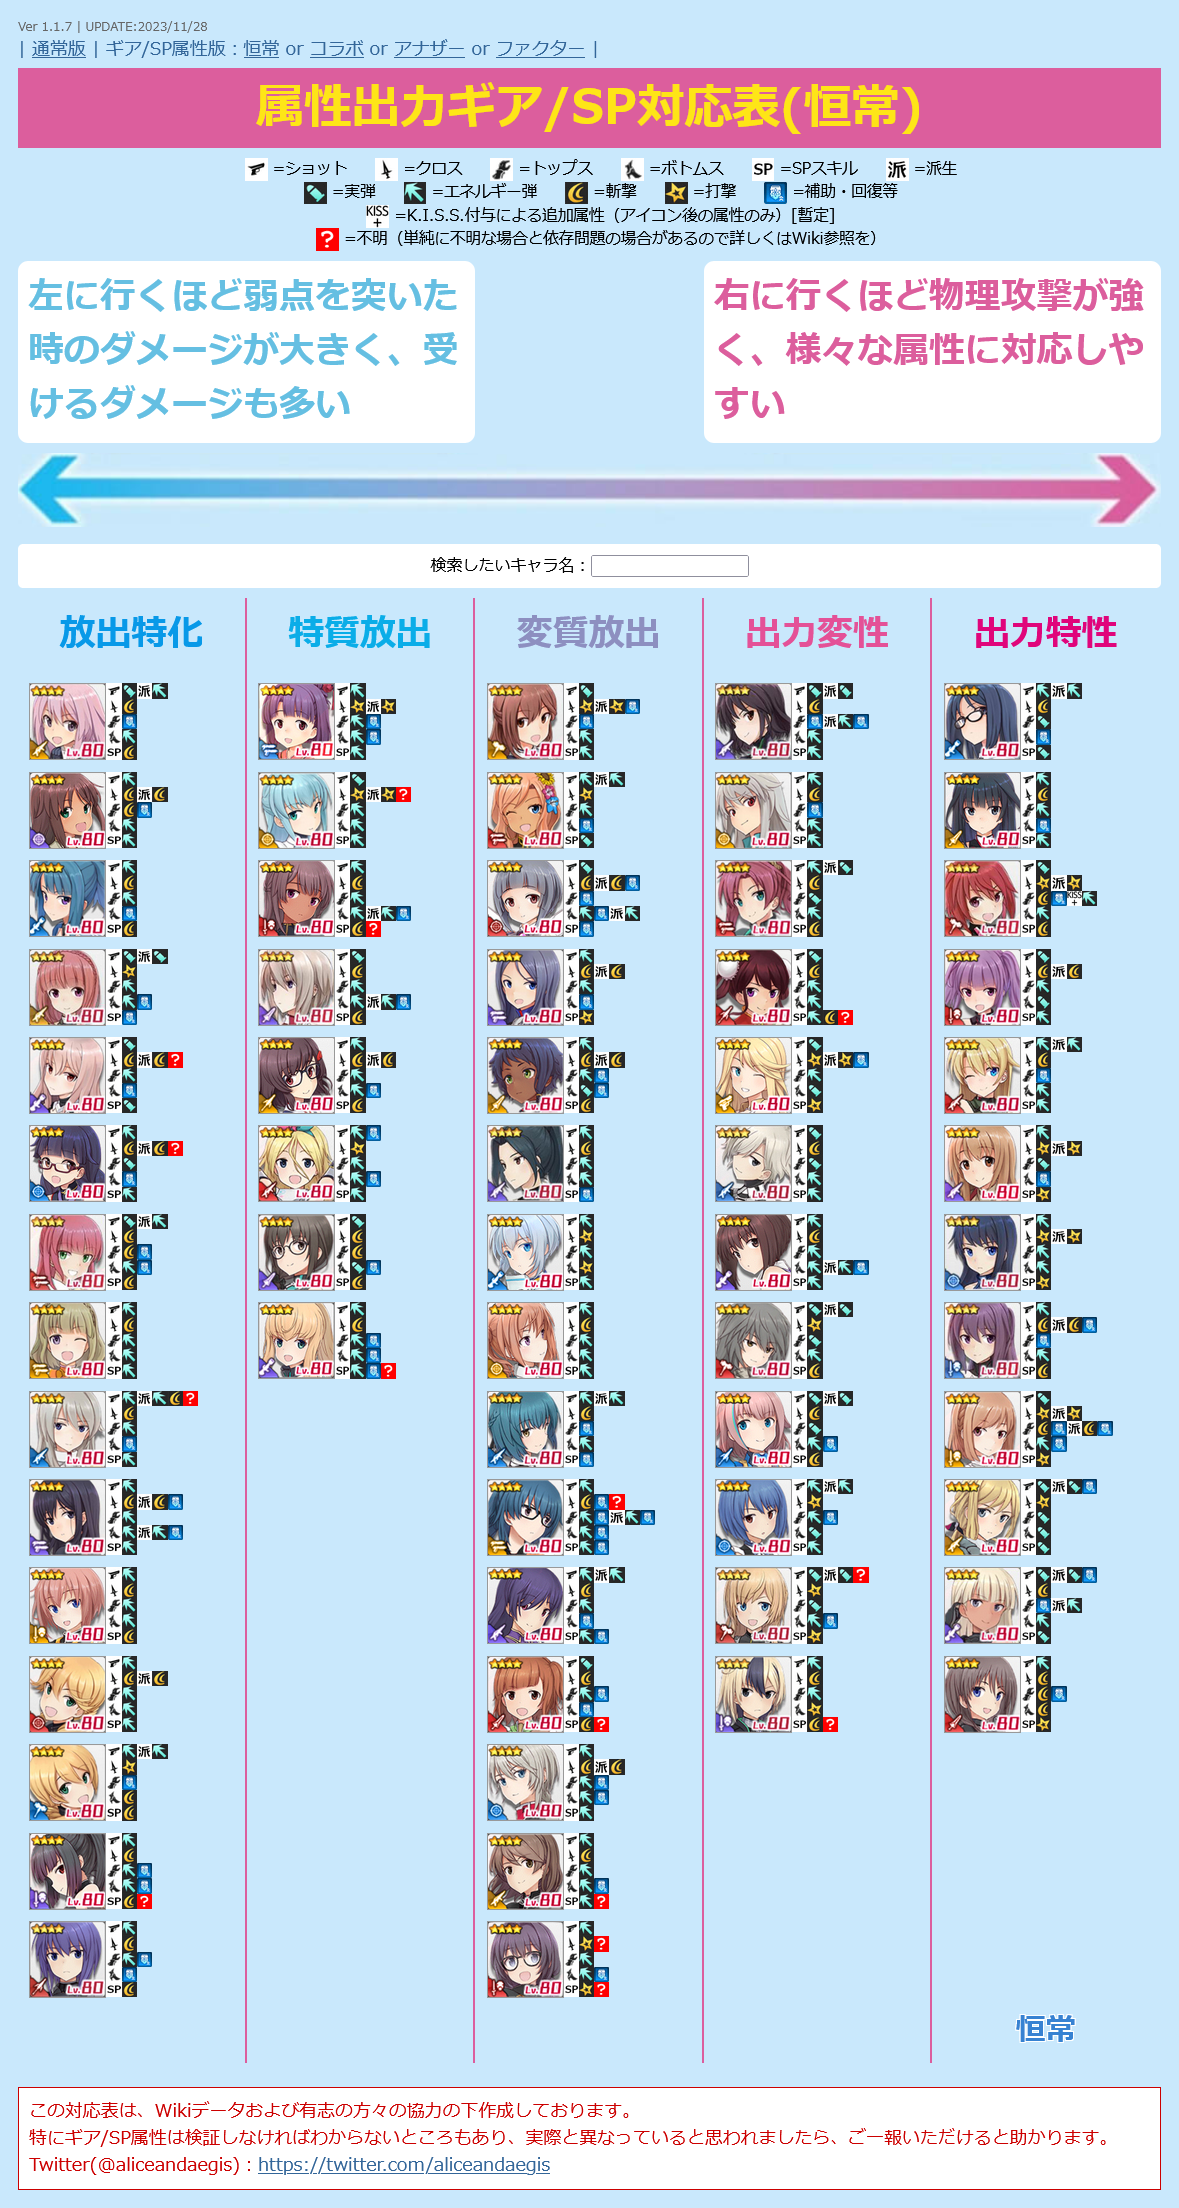
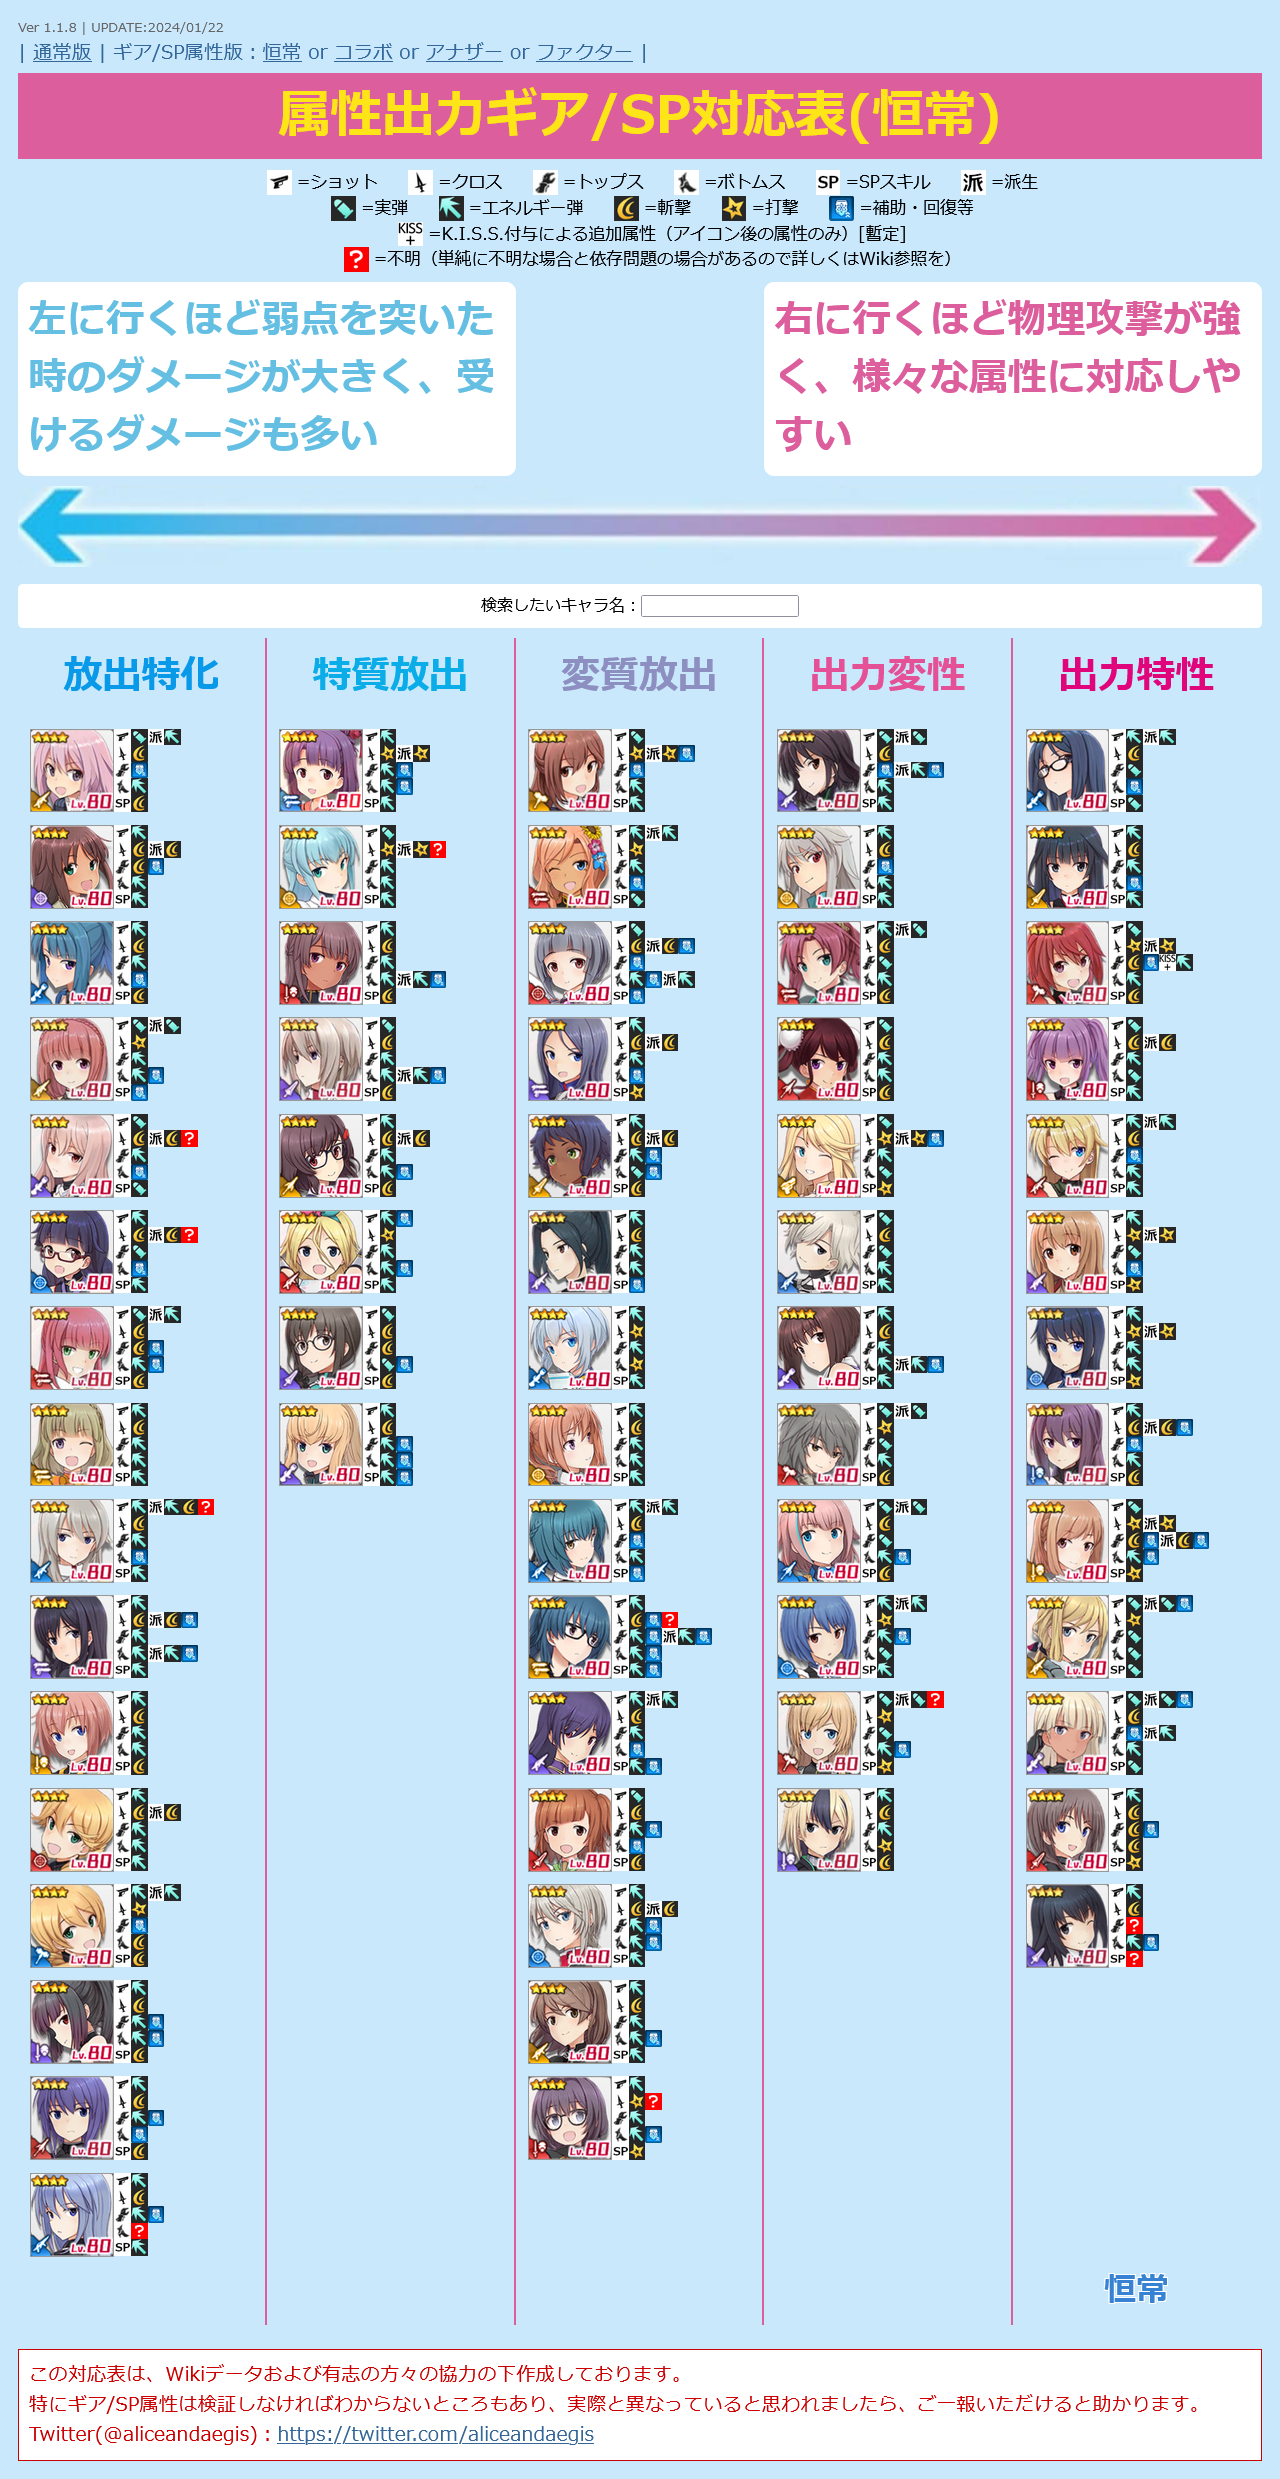
UPDATE charadata
・吾妻 京を追加
・アンジェリカ・グラズノワを追加

diff --git a/alice.html b/alice.html
@@ -12,7 +12,7 @@
   <script>
 
 /* 更新情報 必要に応じて書き換えてください */
-  var version = "Ver 1.1.8 | UPDATE:2023/12/21";
+  var version = "Ver 1.1.8 | UPDATE:2024/01/22";
 
 
 /*
@@ -761,7 +761,7 @@
       "equip2": "3",
       "equip3": "5",
       "equip4": "2",
-      "sp": "3?",
+      "sp": "3",
       "attr": "1",
       "link": "https://wikiwiki.jp/alicegear/%E7%A5%9E%E5%AE%AE%E5%AF%BA%E7%9C%9F%E7%90%86/%E3%83%AC%E3%82%B8%E3%82%A7%E3%83%B3%E3%83%89",
       "category": "11"
@@ -901,7 +901,7 @@
       "equip2": "3",
       "equip3": "2",
       "equip4": "2",
-      "sp": "23?",
+      "sp": "3",
       "attr": "3",
       "link": "https://wikiwiki.jp/alicegear/%E7%8E%8B%E7%B4%85%E8%8A%B1",
       "category": ""
@@ -1489,7 +1489,7 @@
       "equip2": "3",
       "equip3": "2",
       "equip4": "2/25",
-      "sp": "3?",
+      "sp": "3",
       "attr": "3",
       "link": "https://wikiwiki.jp/alicegear/%E3%83%95%E3%82%A1%E3%83%86%E3%82%A3%E3%83%9E%E3%83%BB%E3%83%99%E3%83%88%E3%83%AD%E3%83%A9%E3%83%A0",
       "category": ""
@@ -1825,7 +1825,7 @@
       "equip2": "3",
       "equip3": "25",
       "equip4": "5",
-      "sp": "3?",
+      "sp": "3",
       "attr": "3",
       "link": "https://wikiwiki.jp/alicegear/%E6%98%A5%E6%97%A5%E4%B8%98%E3%82%82%E3%81%88",
       "category": ""
@@ -1853,7 +1853,7 @@
       "equip2": "3",
       "equip3": "25",
       "equip4": "25",
-      "sp": "3?",
+      "sp": "3",
       "attr": "2",
       "link": "https://wikiwiki.jp/alicegear/%E6%B3%A2%E4%BD%90%E8%A6%8B%E5%88%A9%E4%BD%B3",
       "category": ""
@@ -1937,7 +1937,7 @@
       "equip2": "3",
       "equip3": "2",
       "equip4": "25",
-      "sp": "2?",
+      "sp": "2",
       "attr": "1",
       "link": "https://wikiwiki.jp/alicegear/%E5%B0%BE%E9%95%B7%E6%99%B6%E4%B9%83",
       "category": ""
@@ -1965,7 +1965,7 @@
       "equip2": "3",
       "equip3": "2",
       "equip4": "4",
-      "sp": "3?",
+      "sp": "3",
       "attr": "2",
       "link": "https://wikiwiki.jp/alicegear/%E5%B7%BD%E7%AB%9C%E5%AD%90",
       "category": ""
@@ -1979,7 +1979,7 @@
       "equip2": "4?",
       "equip3": "2",
       "equip4": "25",
-      "sp": "4?",
+      "sp": "4",
       "attr": "3",
       "link": "https://wikiwiki.jp/alicegear/%E9%A7%92%E6%B7%BB%E7%B5%B5%E4%BC%9D",
       "category": ""
@@ -1993,9 +1993,37 @@
       "equip2": "3",
       "equip3": "25",
       "equip4": "25",
-      "sp": "25?",
+      "sp": "25",
       "attr": "2",
       "link": "https://wikiwiki.jp/alicegear/%E3%83%8E%E3%82%A8%E3%83%AB%E3%83%BB%E3%83%95%E3%83%A9%E3%83%B3%E3%82%B7%E3%82%B9%E3%82%AB",
+      "category": ""
+    },
+    {
+      "id": "63",
+      "type": "5",
+      "src": "normal-kei.a.png",
+      "name": "吾妻 京",
+      "equip1": "2",
+      "equip2": "3",
+      "equip3": "?",
+      "equip4": "25",
+      "sp": "?",
+      "attr": "2",
+      "link": "https://wikiwiki.jp/alicegear/%E5%90%BE%E5%A6%BB%E4%BA%AC",
+      "category": ""
+    },
+    {
+      "id": "64",
+      "type": "1",
+      "src": "normal-angelica.png",
+      "name": "アンジェリカ・グラズノワ",
+      "equip1": "2",
+      "equip2": "3",
+      "equip3": "25",
+      "equip4": "?",
+      "sp": "2",
+      "attr": "4",
+      "link": "https://wikiwiki.jp/alicegear/%E3%82%A2%E3%83%B3%E3%82%B8%E3%82%A7%E3%83%AA%E3%82%AB%E3%83%BB%E3%82%B0%E3%83%A9%E3%82%BA%E3%83%8E%E3%83%AF",
       "category": ""
     },
     {
